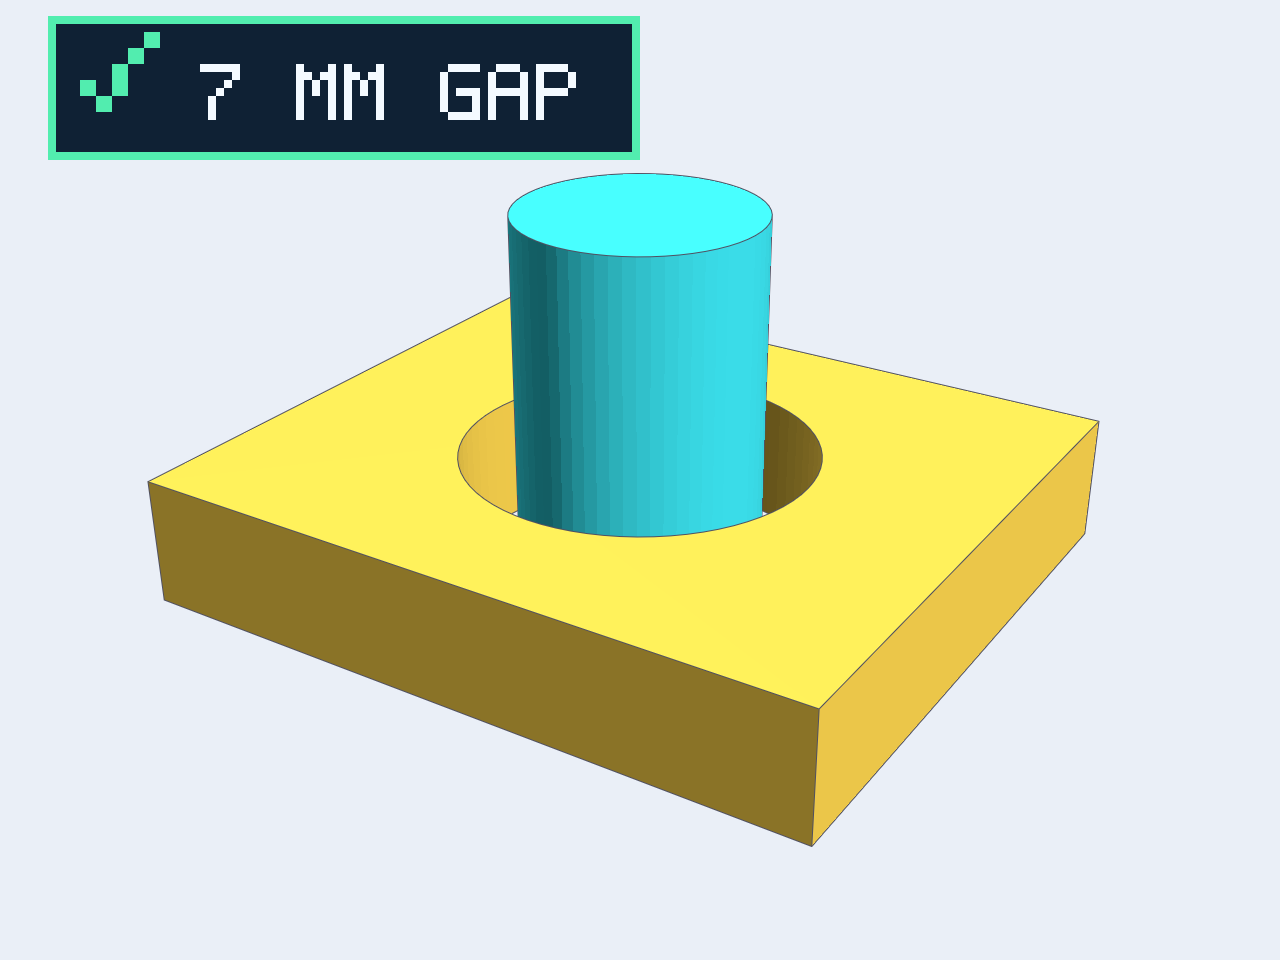
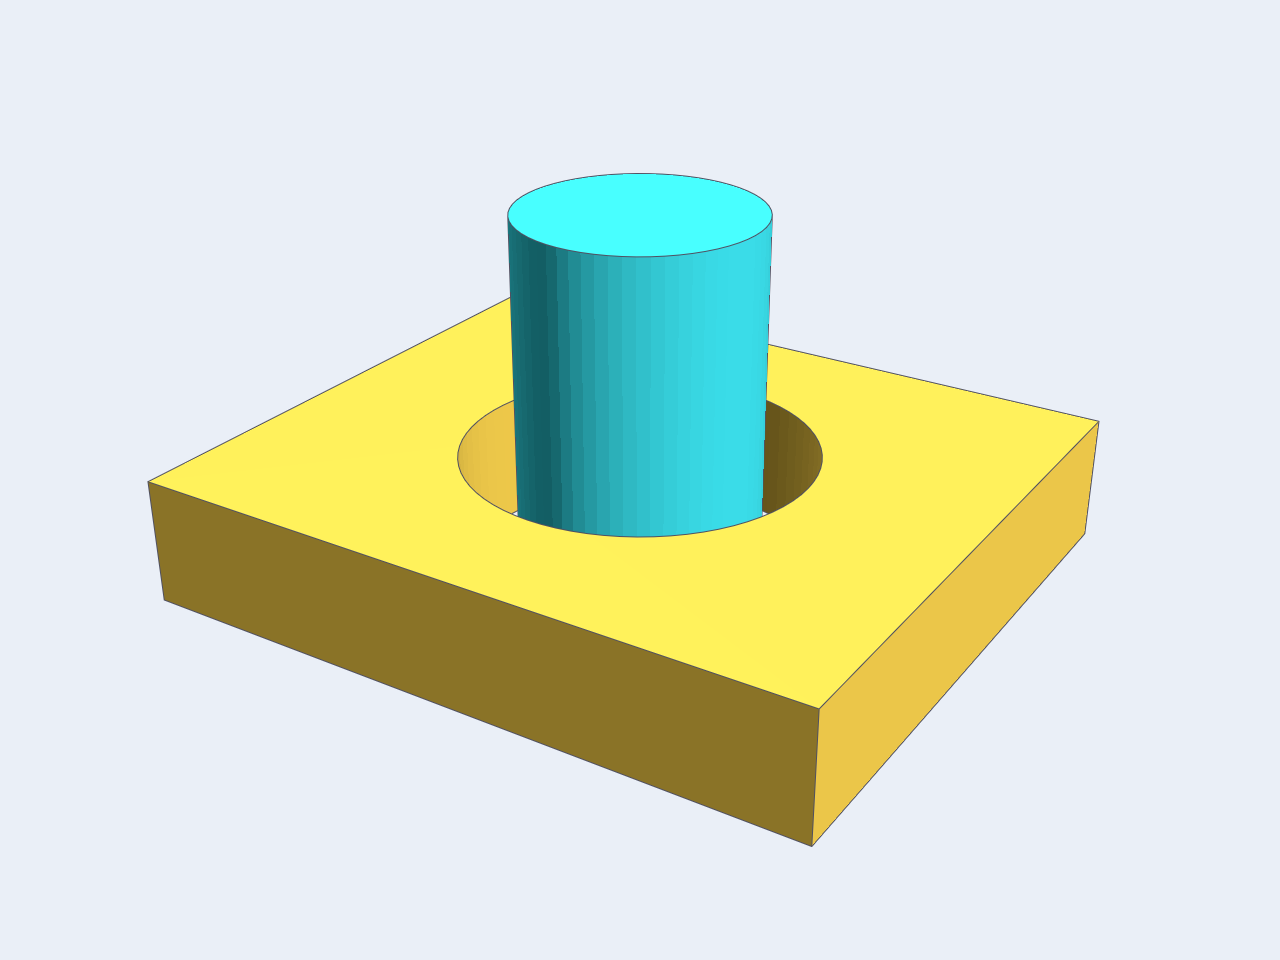
restore static verify gallery image

Changed region(s): [[0.0312, 0.0, 0.5, 0.1875]]

diff --git a/_gallery/feature_animation.go b/_gallery/feature_animation.go
@@ -9,6 +9,7 @@ import (
 	"os"
 	"os/exec"
 	"path/filepath"
+	"slices"
 	"strconv"
 
 	"github.com/lestrrat-3d/decad"
@@ -37,7 +38,10 @@ func runFeatureAnimations(ctx context.Context, args []string) error {
 	if fs.NArg() > 0 {
 		return fmt.Errorf("features: unexpected argument %q", fs.Arg(0))
 	}
-	selected, err := selectRenders(featureRenders(), *only)
+	renders := slices.DeleteFunc(featureRenders(), func(render imageRender) bool {
+		return render.name() == "verify"
+	})
+	selected, err := selectRenders(renders, *only)
 	if err != nil {
 		return err
 	}
@@ -89,8 +93,6 @@ func renderFeatureAnimation(ctx context.Context, name, root string) error {
 		}
 		if name == "boolean" && len(models) > 1 {
 			err = renderBooleanFrame(ctx, file, scene)
-		} else if name == "verify" && stage == steps-1 {
-			err = renderVerifiedFit(ctx, file, scene, solidlens.Settings{Width: 480, Height: 360})
 		} else {
 			err = solidlens.RenderPNG(ctx, file, scene, solidlens.Settings{Width: 480, Height: 360})
 		}
@@ -254,8 +256,6 @@ func featureAnimationModels(ctx context.Context, name string, stage int, chord u
 		return oneModel(ctx, body, blue, chord)
 	case "boolean":
 		return booleanAnimationModels(ctx, stage, chord)
-	case "verify":
-		return verifyAnimationModels(ctx, stage, chord)
 	case "surface":
 		body, err := dishBodyAtAngle(ctx, float64(stage+1)*150/featureAnimationSteps)
 		if err != nil {
@@ -314,53 +314,4 @@ func booleanAnimationModels(ctx context.Context, stage int, chord units.Value) (
 		models = append(models, toolModels...)
 	}
 	return models, nil
-}
-
-func verifyAnimationModels(ctx context.Context, stage int, chord units.Value) ([]solidlens.Model, error) {
-	w := sketch.NewWorld()
-	doc := decad.New()
-	plate, err := prism(ctx, doc, w, w.XY(), 16, rectangle(-44, -38, 44, 38))
-	if err != nil {
-		return nil, err
-	}
-	if stage > 0 {
-		depth := float64(min(stage, 7)) * 2.3
-		if stage >= 8 {
-			depth = flangeThickness + holeClearance
-		}
-		bore, err := holeTool(ctx, doc, w, drill{name: "fit", radius: 22}, 16, depth)
-		if err != nil {
-			return nil, err
-		}
-		plate, err = decad.Cut(ctx, plate, bore)
-		if err != nil {
-			return nil, err
-		}
-	}
-	models, err := oneModel(ctx, plate, gold, chord)
-	if err != nil || stage < 8 {
-		return models, err
-	}
-	pin, err := verifyPin(ctx, doc, w)
-	if err != nil {
-		return nil, err
-	}
-	travel := 80 * float64(featureAnimationSteps-1-stage) / (featureAnimationSteps - 9)
-	if travel > 0 {
-		translation, err := r3.Translation(r3.NewVec(0, 0, travel))
-		if err != nil {
-			return nil, err
-		}
-		pin, err = pin.PlacedCopy(ctx, translation)
-		if err != nil {
-			return nil, err
-		}
-	}
-	if stage == featureAnimationSteps-1 {
-		if err := verifyFitGap(ctx, doc); err != nil {
-			return nil, err
-		}
-	}
-	part, err := oneModel(ctx, pin, cyan, chord)
-	return append(models, part...), err
 }

diff --git a/_gallery/features.go b/_gallery/features.go
@@ -3,7 +3,6 @@ package main
 import (
 	"context"
 	"fmt"
-	"math"
 
 	"github.com/lestrrat-3d/decad"
 	"github.com/lestrrat-3d/r3"
@@ -516,7 +515,7 @@ func requireSheet(body *decad.Body) error {
 	return nil
 }
 
-// verifyShot checks a pin in a bore before drawing its clearance result.
+// verifyShot renders a pin inside a larger bore with radial clearance.
 func verifyShot(ctx context.Context, chord units.Value) ([]solidlens.Model, error) {
 	w := sketch.NewWorld()
 	doc := decad.New()
@@ -537,10 +536,6 @@ func verifyShot(ctx context.Context, chord units.Value) ([]solidlens.Model, erro
 	if err != nil {
 		return nil, err
 	}
-	if err := verifyFitGap(ctx, doc); err != nil {
-		return nil, err
-	}
-
 	housingModel, err := oneModel(ctx, housing, gold, chord)
 	if err != nil {
 		return nil, err
@@ -550,23 +545,6 @@ func verifyShot(ctx context.Context, chord units.Value) ([]solidlens.Model, erro
 		return nil, err
 	}
 	return append(housingModel, pinModel...), nil
-}
-
-// verifyFitGap checks the fitted pair before its measured clearance is drawn.
-func verifyFitGap(ctx context.Context, doc *decad.Document) error {
-	report, err := doc.Verify(ctx, decad.WithClearances())
-	if err != nil {
-		return fmt.Errorf("verify pin clearance: %w", err)
-	}
-	if !report.Passed() || len(report.Clearances) != 1 {
-		return fmt.Errorf("verify pin clearance: status %s, %d clearance readings",
-			report.Status, len(report.Clearances))
-	}
-	gap := report.Clearances[0].Gap
-	if math.Abs(gap.Value.Base()-7)+gap.Bound.Base() >= 0.5 {
-		return fmt.Errorf("verify pin clearance: gap %s ± %s cannot be shown as 7 mm", gap.Value, gap.Bound)
-	}
-	return nil
 }
 
 // lateralEdgePlate is the receiver the three modify shots share: one plate with

diff --git a/_gallery/main.go b/_gallery/main.go
@@ -7,9 +7,10 @@
 // the repository's docs/images, at each shot's own chord tolerance and size,
 // exactly as committed.
 //
-// The features subcommand renders each feature at successive construction
-// stages and writes looping GIFs under docs/images/features. It requires
-// ffmpeg and accepts -only and -out flags.
+// The features subcommand renders each animated feature at successive
+// construction stages and writes looping GIFs under docs/images/features.
+// Verify uses a static thumbnail. The subcommand requires ffmpeg and accepts
+// -only and -out flags.
 //
 // Flags let one invocation try a shot at a different tolerance or size
 // without touching the committed images:
@@ -108,11 +109,7 @@ func (r imageRender) write(ctx context.Context, chord units.Value, settings soli
 	if err != nil {
 		return fmt.Errorf("create output: %w", err)
 	}
-	if r.name() == "verify" {
-		err = renderVerifiedFit(ctx, file, scene, settings)
-	} else {
-		err = solidlens.RenderPNG(ctx, file, scene, settings)
-	}
+	err = solidlens.RenderPNG(ctx, file, scene, settings)
 	closeErr := file.Close()
 	if err != nil {
 		return fmt.Errorf("render: %w", err)

diff --git a/README.md b/README.md
@@ -105,8 +105,8 @@ meshes decad tessellates.
 </tr>
 <tr>
 <td>
-<img src="docs/images/features/verify.gif" alt="A pin enters a bored housing; Verify reports a 7 mm gap" width="320"><br>
-<strong>Verify</strong> measures the 7 mm clearance between the pin and housing after the pin seats in the bore.
+<img src="docs/images/features/verify.png" alt="A pin standing inside a larger bore with clearance all around" width="320"><br>
+<strong>Verify</strong> reports whether bodies interfere and measures their gap when clearance is requested.
 </td>
 <td>
 <img src="docs/images/features/surface.gif" alt="A curved open dish grows as its profile revolves" width="320"><br>
